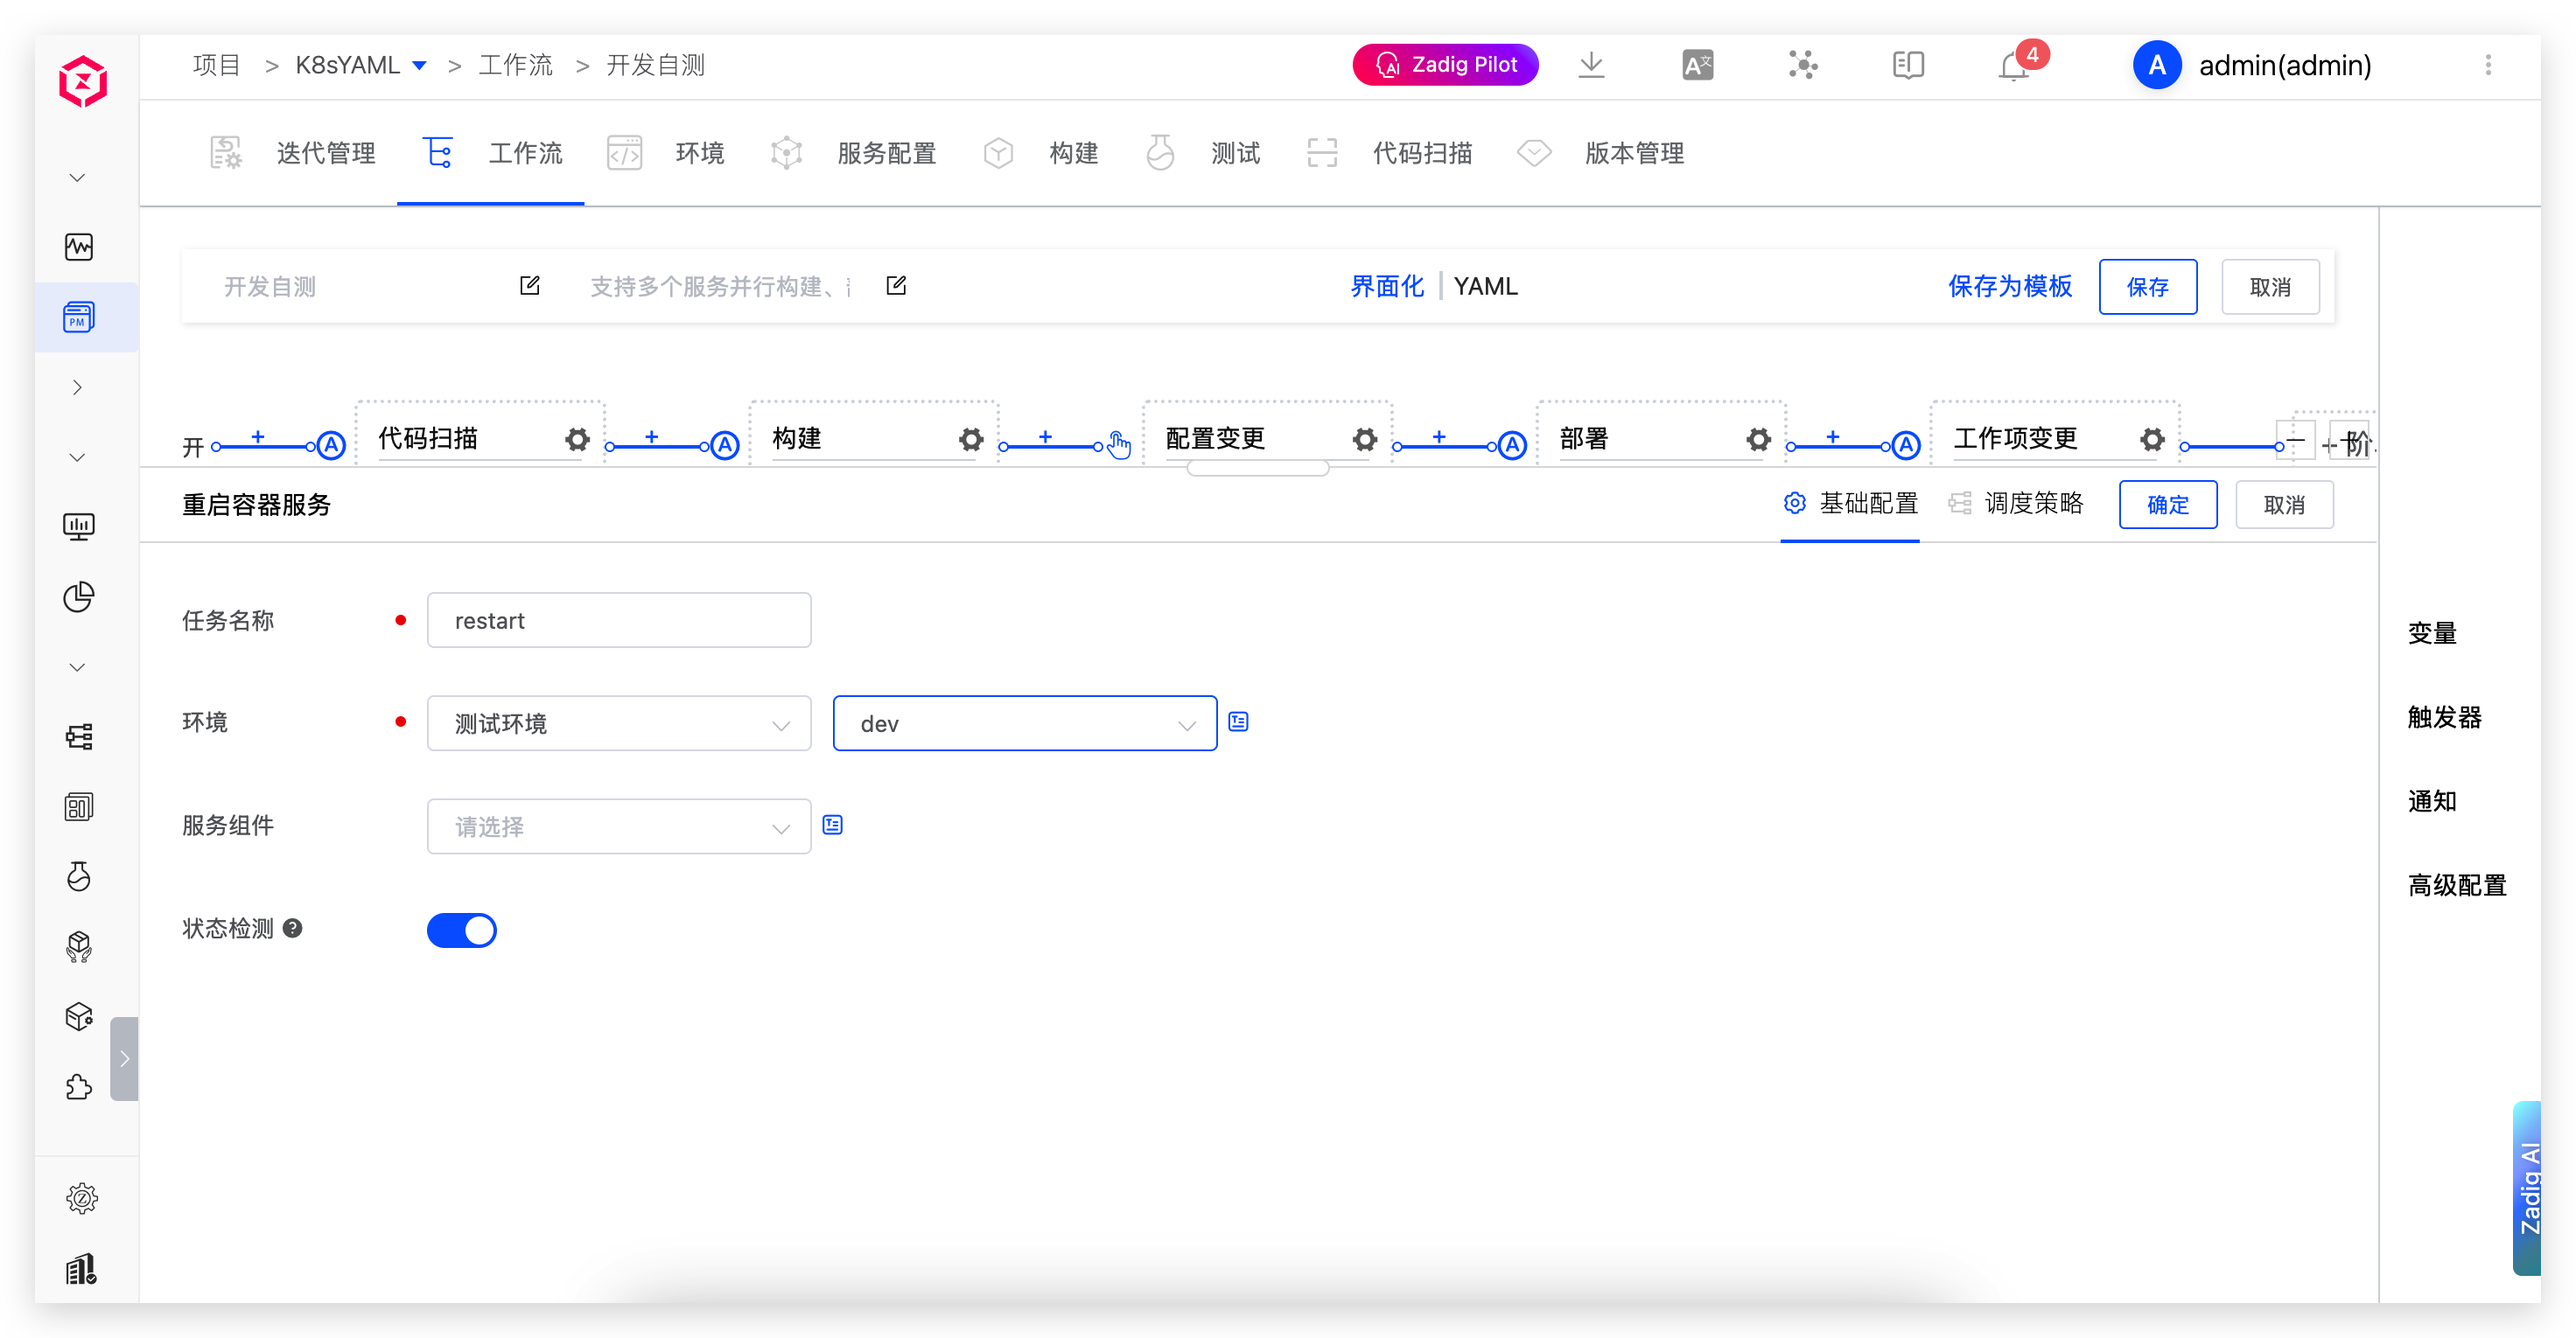
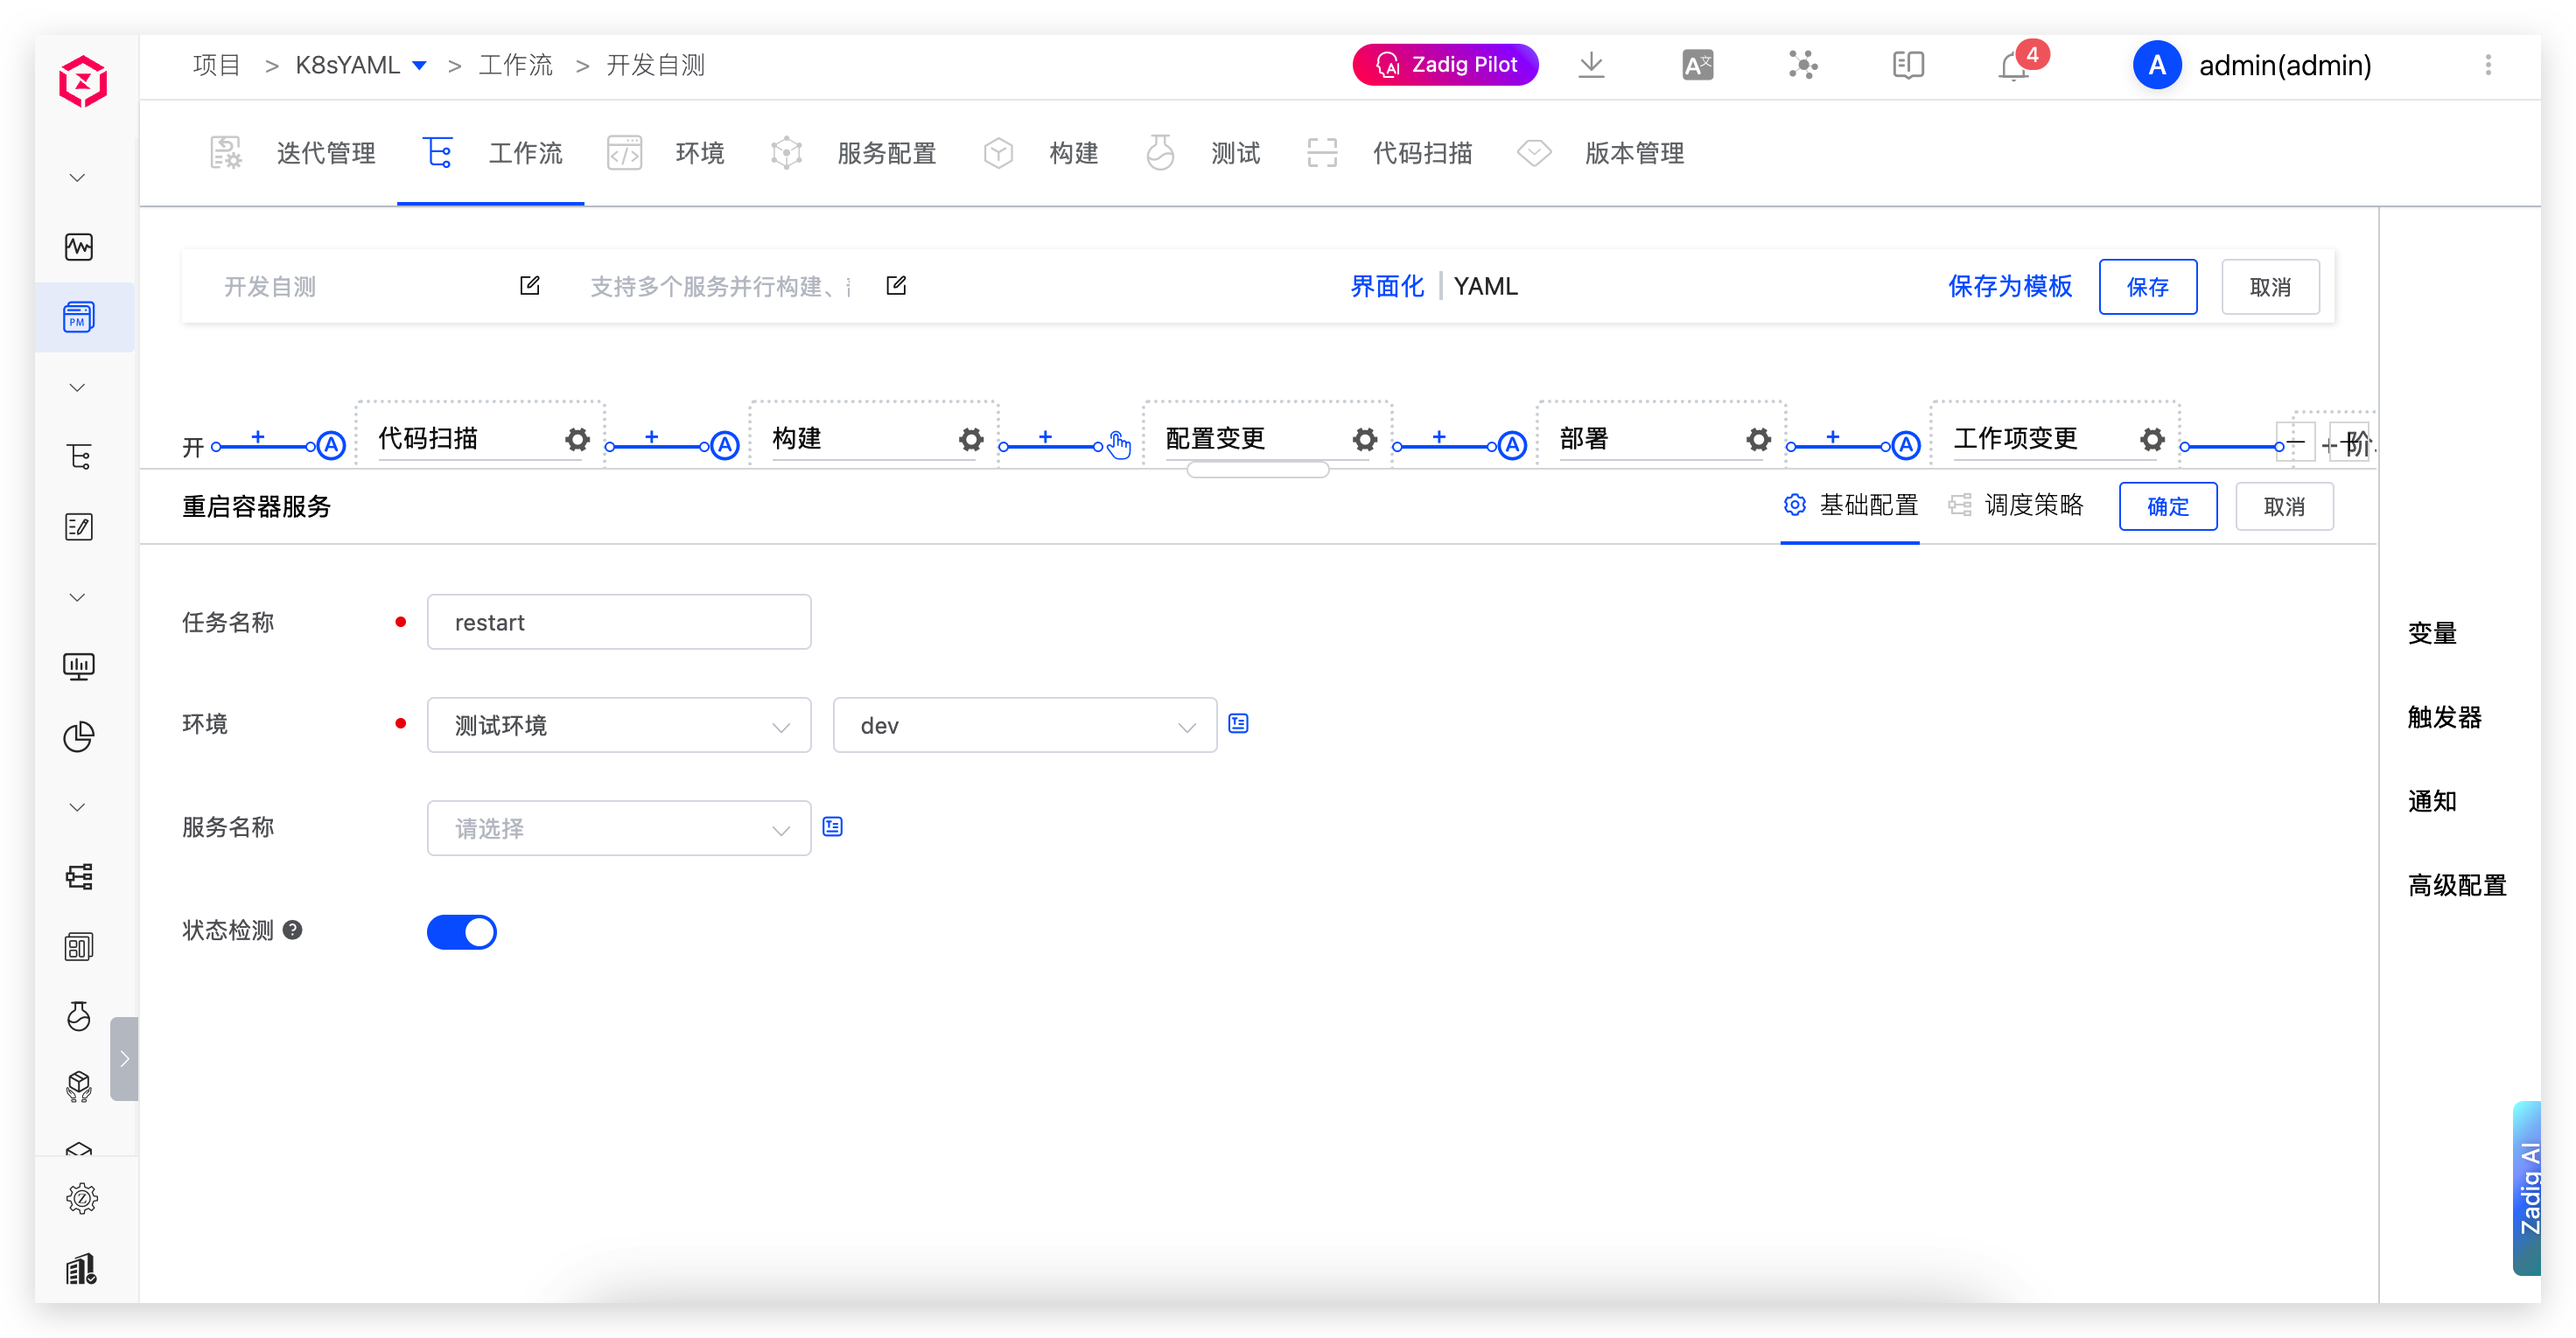
Update restart image in workflow jobs docs

diff --git a/en/Zadig v4.2/05.Features/02.Workflow/03.Configuration Overview/03.workflow_jobs.md b/en/Zadig v4.2/05.Features/02.Workflow/03.Configuration Overview/03.workflow_jobs.md
@@ -51,7 +51,7 @@ Parameter Description:
 Parameter Description:
 - `Task Name` : Supports lowercase English letters, numbers, or hyphens within 32 characters, and must start with a lowercase English letter; in the same workflow, the task name must be unique
 - `Environment` : The environment to be restarted
-- `Service Component` : Supports two configuration methods: runtime input and other task outputs
+- `Service Name` : Supports two configuration methods: runtime input and other task outputs
 
 ### Host Service Deployment
 

diff --git a/cn/Zadig v4.2/05.功能介绍及最佳实践/02.工作流/03.配置介绍/03.workflow_jobs.md b/cn/Zadig v4.2/05.功能介绍及最佳实践/02.工作流/03.配置介绍/03.workflow_jobs.md
@@ -51,7 +51,7 @@ permalink: /cn/Zadig v4.2/project/workflow-jobs/
 参数说明：
 - `任务名称`：支持 32 位以内的小写英文字母、数字或者中划线，且以小写英文字母开头；在同一个工作流中，任务名称需唯一
 - `环境`：需要重启的环境
-- `服务组件`：支持运行时输入和其他任务输出两种方式
+- `服务名称`：支持运行时输入和其他任务输出两种方式
 
 ### 主机服务部署
 
